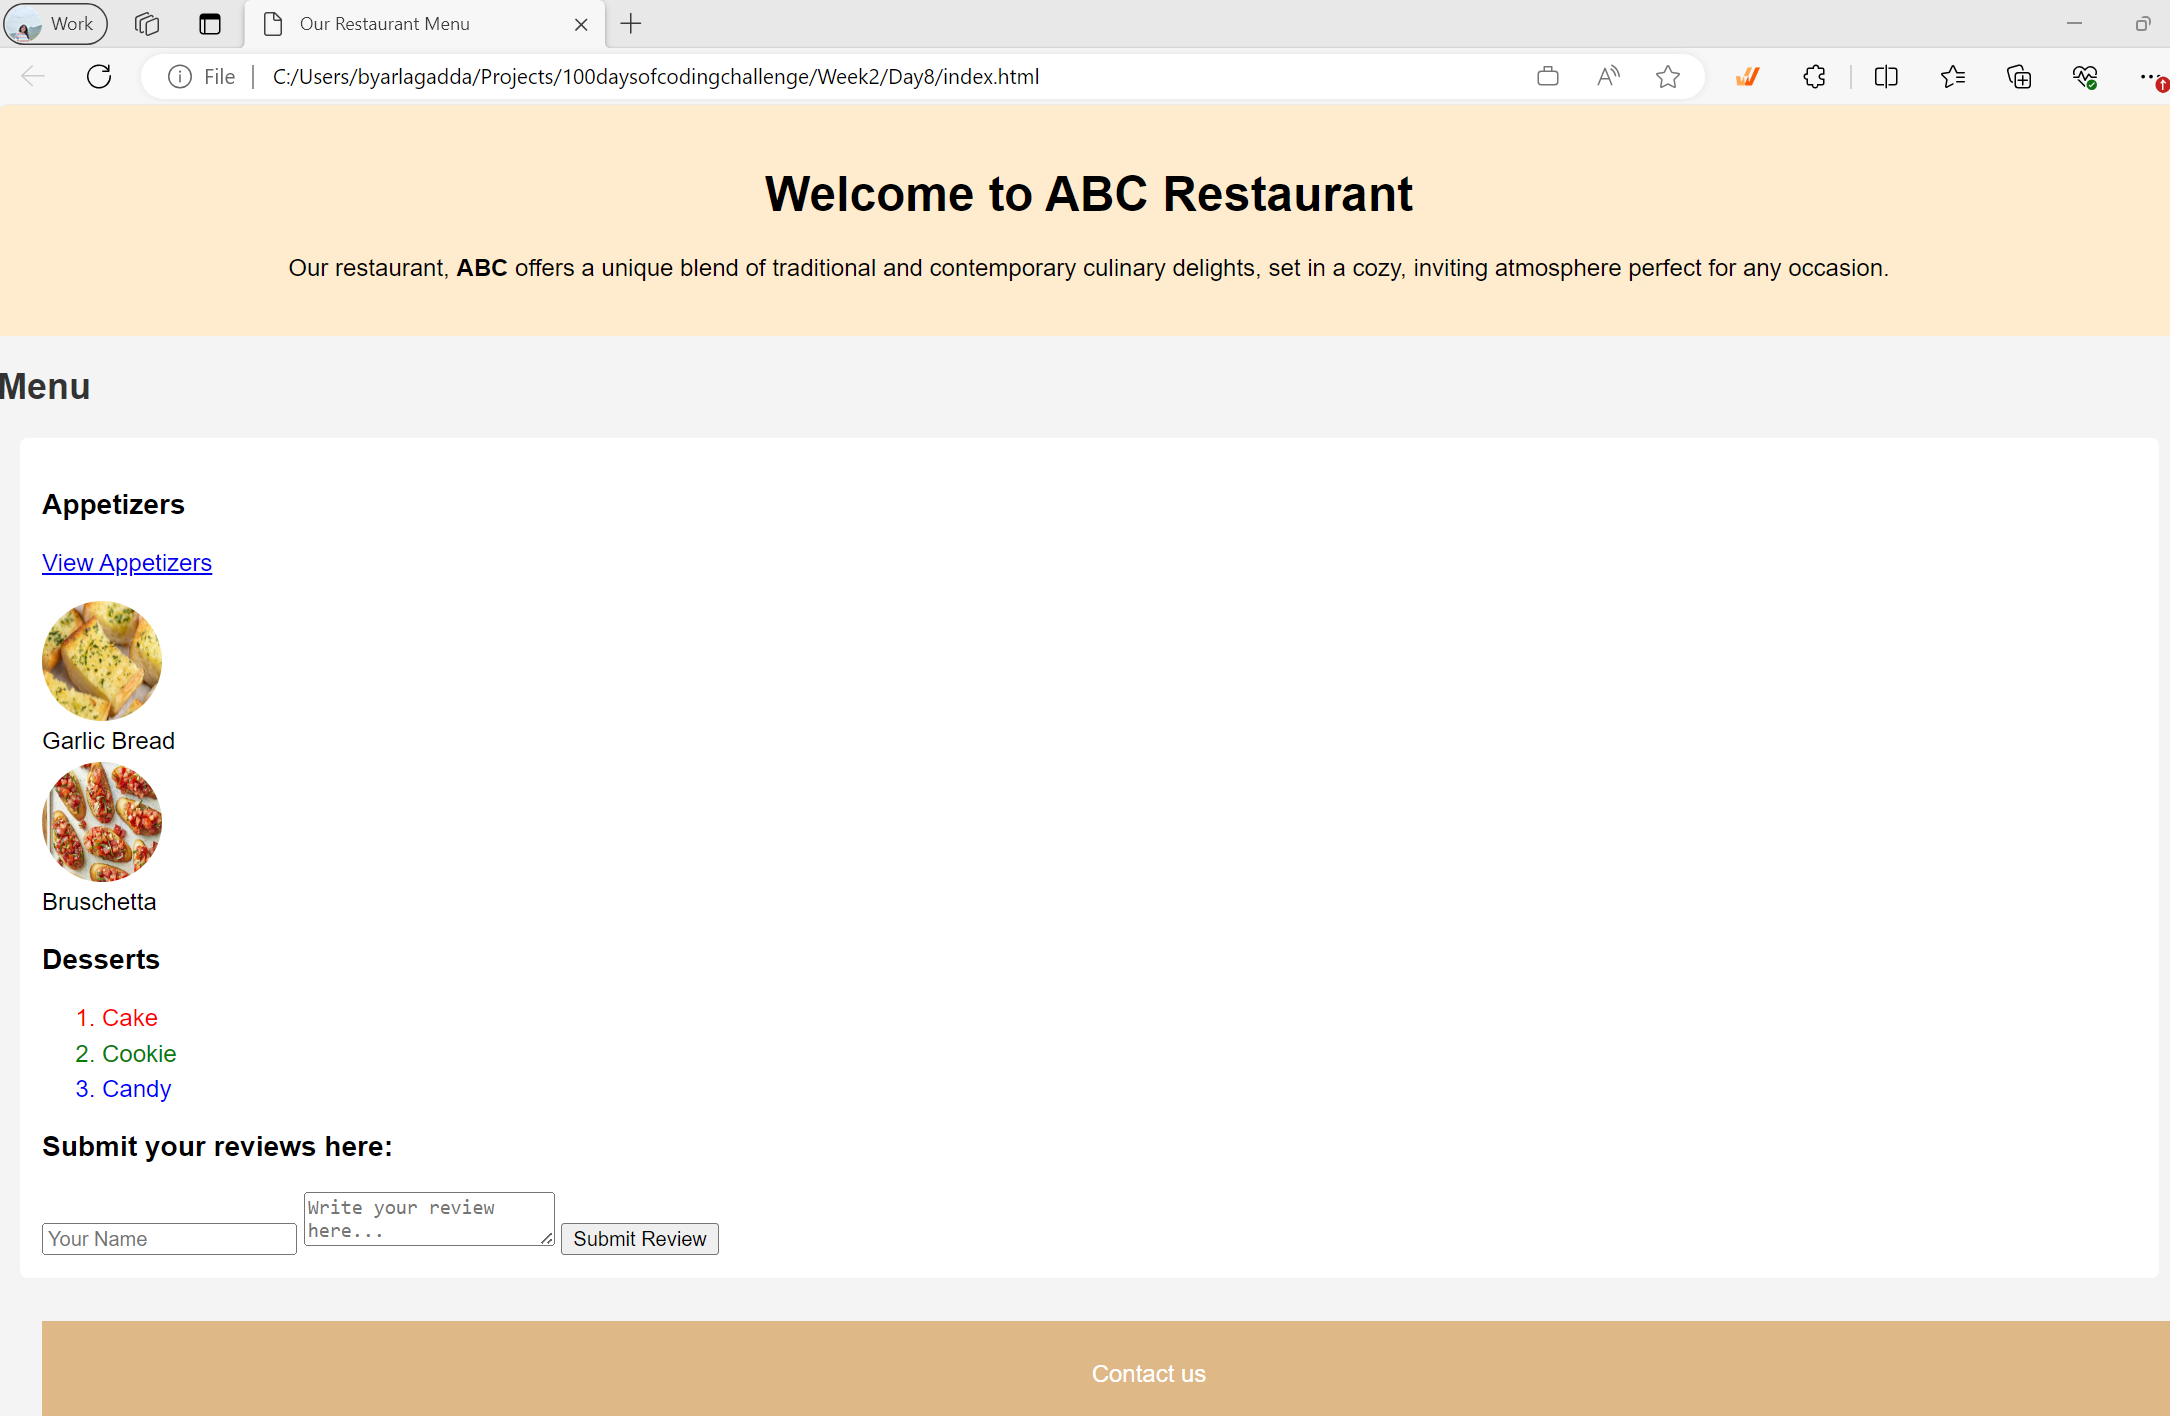
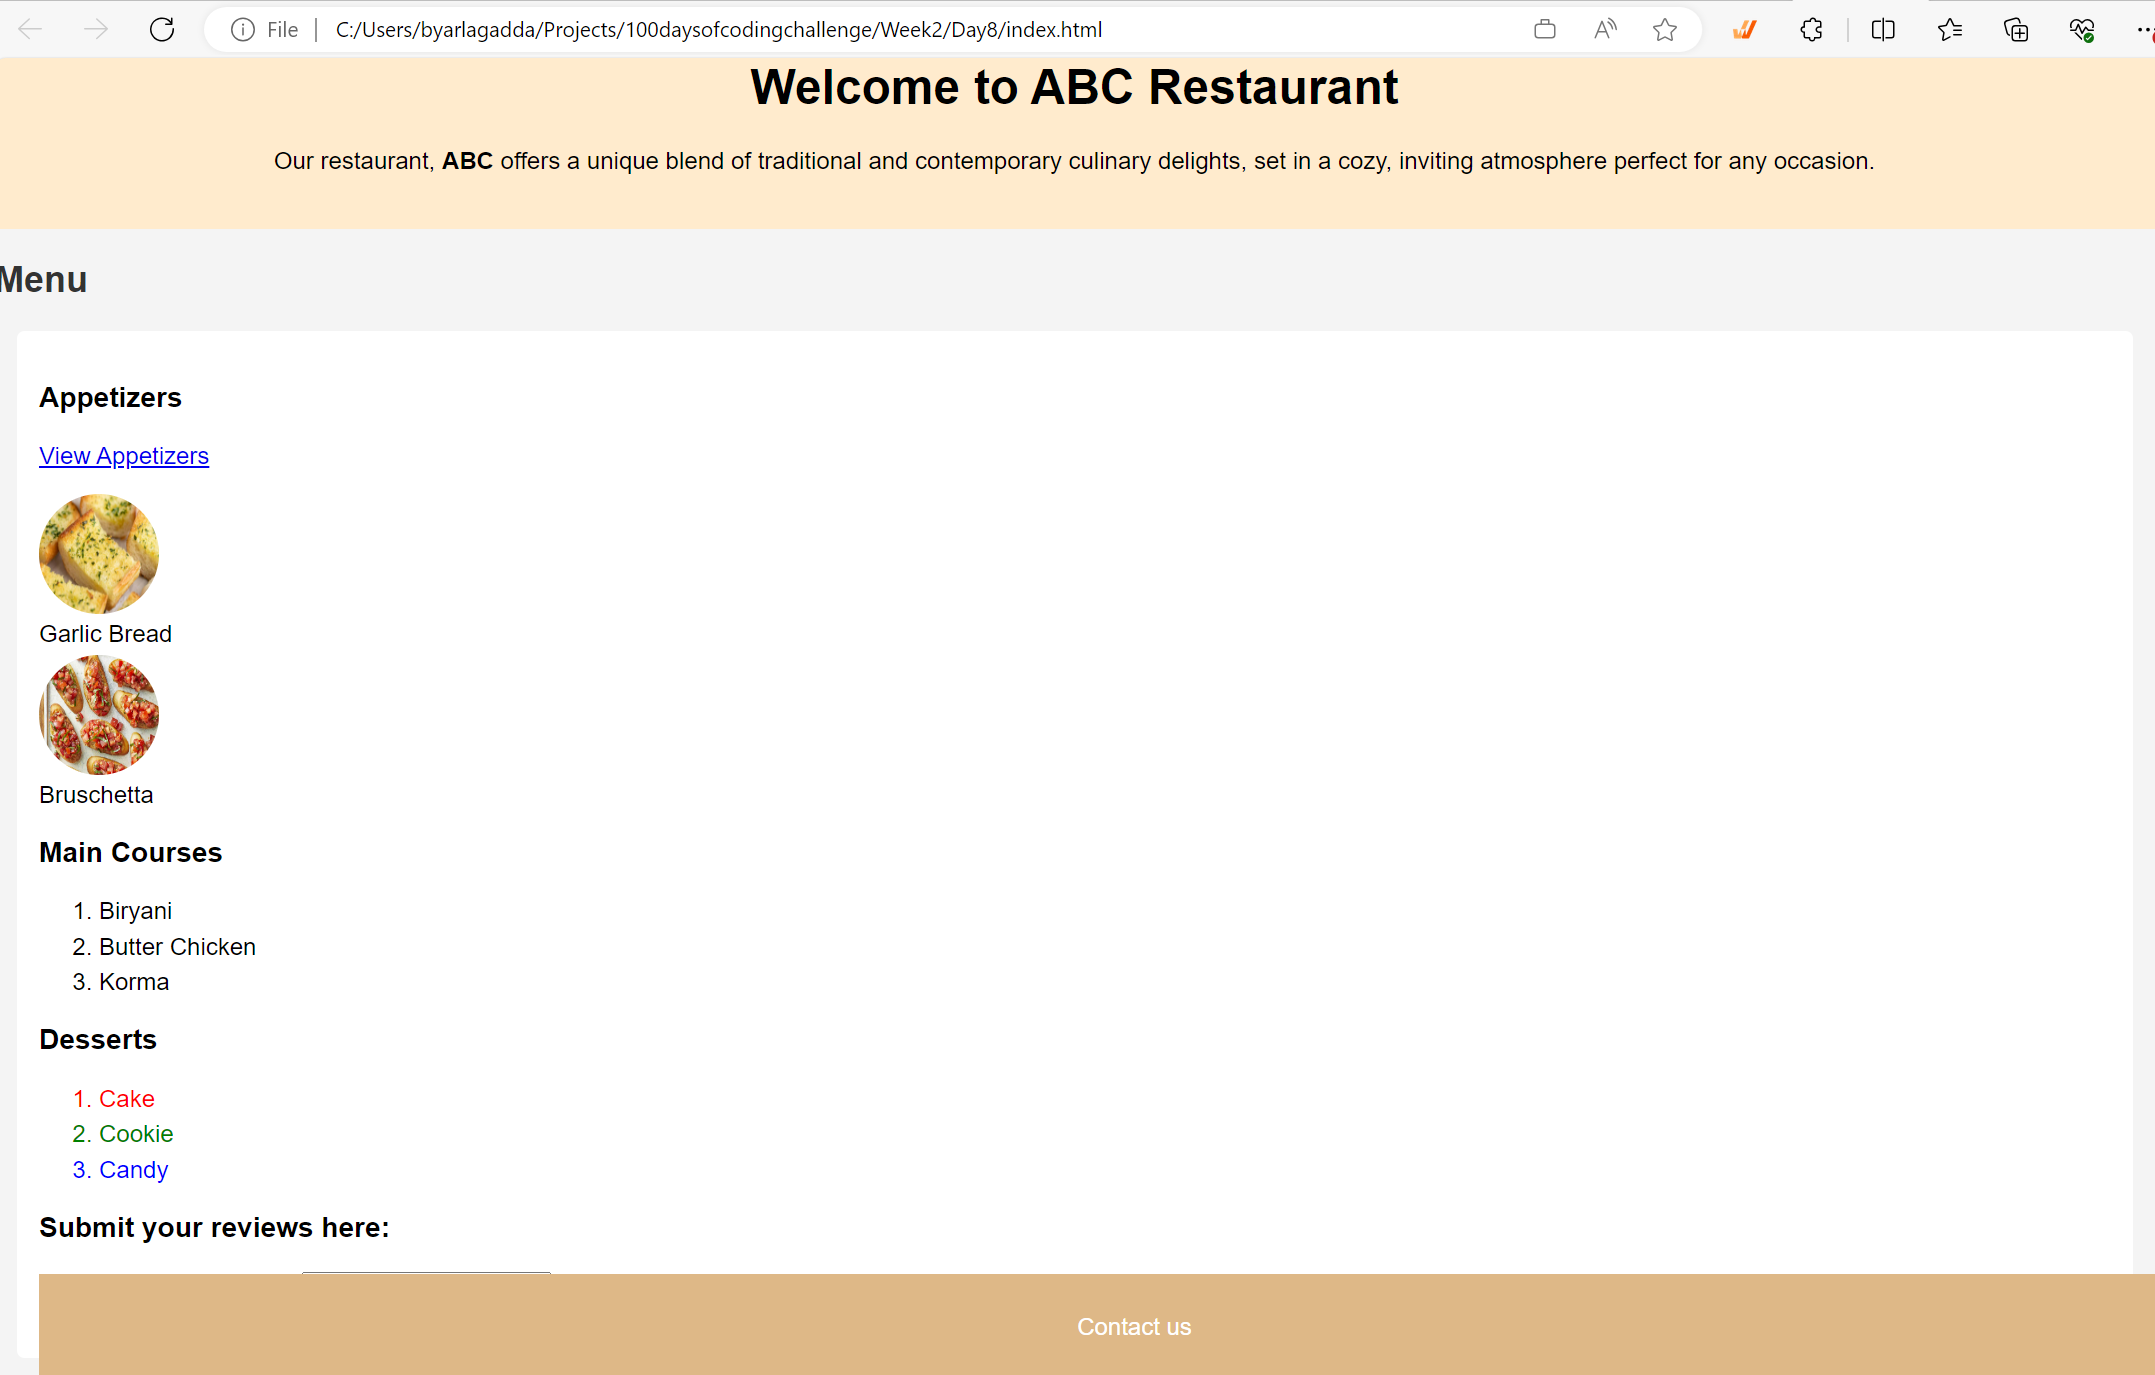
added images

Changed region(s): [[0.0, 0.0, 1.0, 0.9775], [0.2487, 0.8553, 0.342, 0.8858]]

diff --git a/Week2/Day12/Day12Challenge.md b/Week2/Day12/Day12Challenge.md
@@ -54,6 +54,8 @@ The box model consists of margins, borders, padding, and the content area.
 - Apply class selector `.menu-section` for menu sections with consistent styling.
 - Implement inline CSS for highlighting special offers.
 
+- <center><img src="https://github.com/adithyasai/100daysofcodingchallenge/blob/week2/images/week2_ss8.png" width="800" height="400"></center>
+
 ### Styling with CSS Selectors and Box Model
 Combine your understanding of selectors and the box model to style the restaurant menu:
 
@@ -82,6 +84,8 @@ Combine your understanding of selectors and the box model to style the restauran
 
 Congratulations on completing Day 12! Experiment with these styles to refine your website's design.
 
-**Instagram:** [code.with.aadi](https://www.instagram.com/code.with.aadi/)
-**LinkedIn:** [Adithya Saladi](https://www.linkedin.com/in/adithyasaladi/), [Bhavya Sri Y](https://www.linkedin.com/in/bhavyasriy/)
-**YouTube:** [Code with Aadi](https://www.youtube.com/@Code.with.aadi79)
+## Follow us:
+
+- **Instagram:** [code.with.aadi](https://www.instagram.com/code.with.aadi/)
+- **Linkedin:** [adithyasaladi](https://www.linkedin.com/in/adithyasaladi/), [bhavyasriy](https://www.linkedin.com/in/bhavyasriy/)
+- **Youtube:** [@code.with.aadi79](https://www.youtube.com/@Code.with.aadi79)

diff --git a/Week2/Day14/Day14Challenge.md b/Week2/Day14/Day14Challenge.md
@@ -33,7 +33,8 @@ Take some time to refine your personal portfolio website. Consider making design
 ## Congratulations!
 You've successfully refined and deployed your portfolio to the web. Keep updating it as you progress in your web development journey.
 
-## Connect with us
-**Instagram:** [code.with.aadi](https://www.instagram.com/code.with.aadi/)
-**LinkedIn:** [Adithya Saladi](https://www.linkedin.com/in/adithyasaladi/), [Bhavya Sri Y](https://www.linkedin.com/in/bhavyasriy/)
-**YouTube:** [Code with Aadi](https://www.youtube.com/@Code.with.aadi79)
+## Follow us:
+
+- **Instagram:** [code.with.aadi](https://www.instagram.com/code.with.aadi/)
+- **Linkedin:** [adithyasaladi](https://www.linkedin.com/in/adithyasaladi/), [bhavyasriy](https://www.linkedin.com/in/bhavyasriy/)
+- **Youtube:** [@code.with.aadi79](https://www.youtube.com/@Code.with.aadi79)

diff --git a/Week2/Day13/Day13Challenge.md b/Week2/Day13/Day13Challenge.md
@@ -42,6 +42,8 @@ Demonstrate your ability to create a structured and styled web page using HTML a
 
 This assessment challenges your HTML and CSS skills and encourages creativity. Good luck!
 
-**Instagram:** [code.with.aadi](https://www.instagram.com/code.with.aadi/)
-**LinkedIn:** [Adithya Saladi](https://www.linkedin.com/in/adithyasaladi/), [Bhavya Sri Y](https://www.linkedin.com/in/bhavyasriy/)
-**YouTube:** [Code with Aadi](https://www.youtube.com/@Code.with.aadi79)
+## Follow us:
+
+- **Instagram:** [code.with.aadi](https://www.instagram.com/code.with.aadi/)
+- **Linkedin:** [adithyasaladi](https://www.linkedin.com/in/adithyasaladi/), [bhavyasriy](https://www.linkedin.com/in/bhavyasriy/)
+- **Youtube:** [@code.with.aadi79](https://www.youtube.com/@Code.with.aadi79)

diff --git a/Week2/Day11/Day11ChallengeCode.md b/Week2/Day11/Day11ChallengeCode.md
@@ -60,6 +60,12 @@
             <li>Bruschetta</li>
         </ul>
     <section>
+        <h3>Main Courses</h3>
+        <ol> <!--Ordered list, Observe the difference between ordered/unordered list-->
+            <li>Biryani</li>
+            <li>Butter Chicken</li>
+            <li>Korma</li>
+        </ol>
     <h3>Desserts</h3>
     <ol>
         <li style="color: red;">Cake</li> <!-- Styled with inline CSS -->
@@ -77,7 +83,6 @@
         <p>Contact us</p>
     </footer>
 </body>
-
 </html>
 ```
 ### styles.html

diff --git a/Week2/Day8/Day8ChallengeCode.md b/Week2/Day8/Day8ChallengeCode.md
@@ -1,4 +1,5 @@
-```<!DOCTYPE html>
+```html
+<!DOCTYPE html>
 <html>
 <head>
     <title>Our Restaurant Menu</title>
